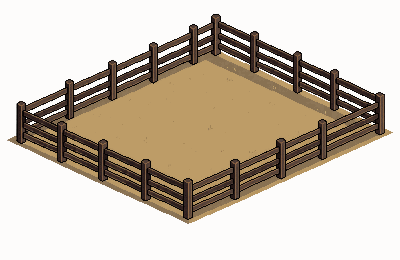
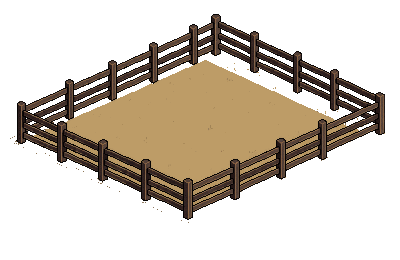
Treeline, a grass paddock, and the carding trap that would have wrecked both
`sceneBg.treeline` is one wide horizon sprite — the thing Design called the
weakest left on screen while it was faking one with nine tree sprites and a
gradient. First attempt came back as a sparse row of tiny trees with big empty
margins; asked for "a dense wall of trees filling the whole frame" instead of "a
strip on a horizon" it came back right. Same lesson as the fence and the ceiling:
describe the OBJECT, never the composition it sits in.

**Every scene-scale asset came back carded** — treeline, all three pens — with an
opaque fill behind the sprite. 0% transparent on the treeline, measured. A carded
pen drawn over the title screen is an opaque rectangle across the sky and the
ground, which is exactly the class of defect that survives review because the
sprite itself looks fine in isolation.

`npm run rmbg` fixes it, and the repo already knew the rule: large subjects come
back framed on a solid ground while the same prompt at 96px comes back clean.
Verified after the call rather than trusting it — treeline 0% -> 33%
transparent, paddock -> 64%. Written into art/sprites.json as a standing rule.

Three pens now, each with a detected ground quad. `npm run pens` re-runs after
every atlas build; the numbers moved when rmbg trimmed the cards, which is the
argument for measuring rather than hand-typing them.

Claude-Session: https://claude.ai/code/session_01XmJPyUWbs2Tt5c7eNKpmNV

Changed region(s): [[0.0, 0.1846, 0.99, 0.8615], [0.12, 0.3077, 0.39, 0.4923], [0.39, 0.2462, 0.48, 0.3077]]

diff --git a/tools/build-atlas.ts b/tools/build-atlas.ts
@@ -123,6 +123,8 @@ interface Manifest {
   pens?: { _base: string; files: Record<string, string>; noTrim?: boolean }
   /** Scene-scale set pieces for the base. See art/sprites.json. */
   vault?: { _base: string; files: Record<string, string>; noTrim?: boolean }
+  /** Backdrop strips for the title scenes. See art/sprites.json. */
+  sceneBg?: { _base: string; files: Record<string, string>; noTrim?: boolean }
   /** The military base under the farm. See art/sprites.json and docs/SUBTERRANEAN.md. */
   base?: { _base: string; files: Record<string, string>; noTrim?: boolean }
   weapons?: { _base: string; files: Record<string, string> }
@@ -700,6 +702,7 @@ const singleGroups = [
   // measured against that box, so trimming would move both anchors.
   manifest.pens ? { ...manifest.pens, cardArt: true } : undefined,
   manifest.vault ? { ...manifest.vault, cardArt: true } : undefined,
+  manifest.sceneBg ? { ...manifest.sceneBg, cardArt: true } : undefined,
   manifest.scene ? { ...manifest.scene, cardArt: true } : undefined,
   manifest.sceneStrips ? { ...manifest.sceneStrips, cardArt: true, noTrim: true } : undefined,
   manifest.portraits,

diff --git a/docs/ASSET_CATALOG.md b/docs/ASSET_CATALOG.md
@@ -2,7 +2,7 @@
 
 **Generated by `npm run catalog`. Do not hand-edit.**
 
-8011 frame keys in `public/atlas.png`.
+8013 frame keys in `public/atlas.png`.
 
 This is not `docs/PIXELLAB_INVENTORY.md`. That one lists what the PixelLab
 account holds and answers *"have we already generated this?"*. **This one lists
